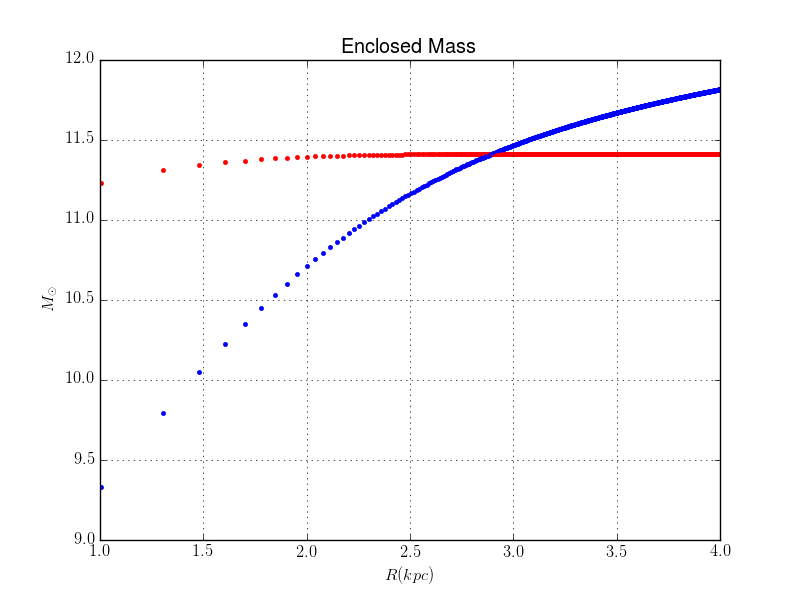
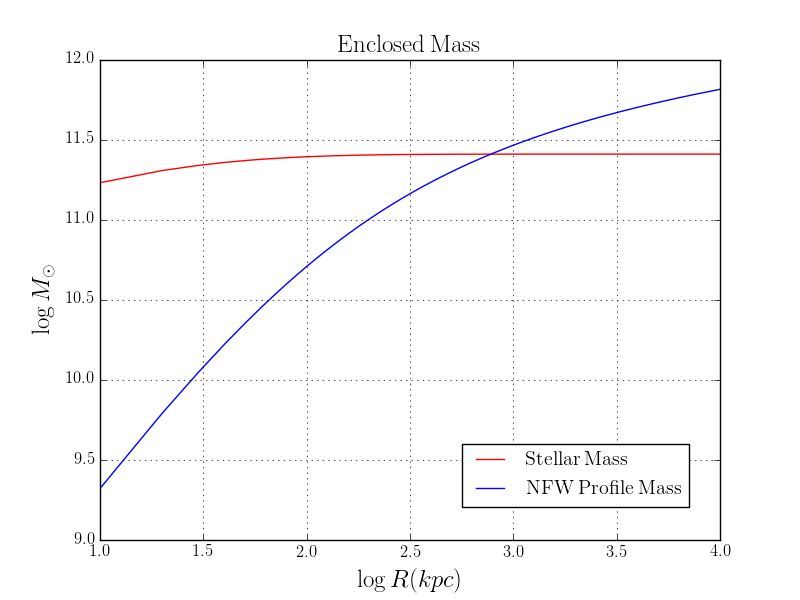
update

diff --git a/plots/Enclosed_mass.py b/plots/Enclosed_mass.py
@@ -1,60 +1,55 @@
 import numpy as np
 from scipy import integrate
-from scipy.integrate import quad
 import matplotlib as mpl
-import matplotlib.patches as mpatches
 import matplotlib.pyplot as plt
 mpl.rcParams['text.usetex'] = True
 
-c        = 4.46                                   # concentration parameter (Paper Dutton and Maccio) this was checked many times 
-delta_c  = (200./3)*(c**3)/(np.log(1+c)-c/(1+c))
-rho_c    = 197.8                                  # Critical density in M_sun/kpc^3 (197.8)
-r_s      = 100                                    # Characteristic radius (kpc) 
-I_e      = 5.1*10**8                              # Effective brightness I(Re) 2.6e6
-b        = 7.67                                   # Lokas and Mamon paper
-R_e      = 73.7                                   # Half of the total light in kpc
+c        = 4.46                                      # Concentration parameter (Paper Dutton and Maccio) 
+delta_c  = ((200./3)*c**3)/(np.log(1.0+c)-c/(1.0+c)) # Characteristic overdensity of the halo
+rho_c    = 197.8                                     # Critical density in M_sun/kpc^3 (197.8)
+r_s      = 100                                       # Characteristic radius (kpc) 
+I_e      = 10**7                                     # Effective brightness I(Re)
+b        = 7.67                                      # Lokas and Mamon paper
+R_e      = 73.7                                      # Half of the total light in kpc
+n_array  = [] 
+f_array  = []
+R        = np.arange(0.01, 10000, 10.)
 
-#MASS ENCLOSED BY LIGHT (DE VAUCOULEURS PROFILE)
+# MASS ENCLOSED BY LIGHT (DE VAUCOULEURS PROFILE)
 
 def surf_bright(r):
-	return 2*np.pi*I_e*np.exp(-b*((r/(R_e))**(0.25)-1))
-R = np.arange(0.1,10000,0.1)
-def F(r):
-    res = np.zeros_like(r)
-    for i,val in enumerate(r):
-        y,err = integrate.quad(surf_bright,0,val)
-        res[i]=y
-    return res
-plt.plot(R,F(R),label='Mass in Stars')
+	return 8.0*np.pi*I_e*np.exp( -b*( ( r/R_e )**0.25 - 1.0 ) )
 
-#NOW FOR THE MASS OF THE NFW PROFILE
+# NOW FOR THE MASS OF THE NFW PROFILE
 
-def NFW(x):
-	if (x<1.0):
-		surf_mass = 2.*np.pi*x*((2*r_s*delta_c*rho_c)/((x*x)-1))*(1-(2)/(np.sqrt(1-(x*x)))*np.arctanh(np.sqrt((1-x)/(1+x))))
-	elif (x==1.0):
-		surf_mass = (2.*r_s*delta_c*rho_c)/3
+def NFW(r):
+	if (r < r_s):
+		surf_mass = 2.0*np.pi*r/r_s*( ( 2.0*r_s*delta_c*rho_c )/( (r/r_s)**2 - 1.0 ) )*( 1.0 - 2.0/( np.sqrt( 1.0 - (r/r_s)**2 ) )*np.arctanh( np.sqrt( ( 1.0-r/r_s )/( 1.0 + r/r_s ) ) ) )
+	elif (r == r_s):
+		surf_mass = 2.0*r_s*delta_c*rho_c/3.0
 	else:
-		surf_mass = 2.*np.pi*x*((2*r_s*delta_c*rho_c)/((x*x)-1))*(1-(2)/(np.sqrt((x*x)-1))*np.arctan(np.sqrt((x-1)/(1+x))))
+		surf_mass = 2.0*np.pi*r/r_s*( ( 2.0*r_s*delta_c*rho_c )/( (r/r_s)**2 - 1.0 ) )*( 1.0 - 2.0/( np.sqrt( (r/r_s)**2 - 1.0 ) )*np.arctan( np.sqrt( ( r/r_s - 1.0 )/( 1 + r/r_s ) ) ) )
 	return surf_mass
 	
-X = np.arange(0.001,100,0.1)
+def F(val):
+  h = lambda x: surf_bright(x)
+  return integrate.quad(h, 0.1, val)[0]
 
-def Mass(x):
-    res2 = np.zeros_like(x)
-    for j,val in enumerate(x):
-        y,err = integrate.quad(NFW,0,val)
-        res2[j]=y
-    return res2
-plt.plot(X*r_s,Mass(X),label='Dynamical Mass')
-
-plt.yscale('log')
-plt.xscale('log')
-plt.xlabel('$R(kpc)$')
-plt.ylabel('$M_{\odot }$')
-plt.title('Enclosed Mass')
+def N(val):
+  g = lambda y: NFW(y)
+  return integrate.quad(g, 0.1, val)[0]
+      
+for i in range(len(R)):
+   f_array.append(np.log10(F(R[i])))
+   n_array.append(np.log10(N(R[i])))
+    
+plt.plot(np.log10(R), f_array, '-', c = 'r', label = r'$\mathrm{Stellar\:Mass}$')
+plt.plot(np.log10(R), n_array, '-', c = 'b', label = r'$\mathrm{NFW\:Profile\:Mass}$')
+plt.xlabel(r'$\log R(kpc)$',fontsize=18)
+plt.ylabel(r'$\log M_{\odot }$',fontsize=18)
+plt.title(r'$\mathrm{Enclosed\:Mass}$',fontsize=18)
 plt.grid(True)
-plt.legend()
+plt.legend(bbox_to_anchor=(0.95, 0.2), loc=1, borderaxespad=0.)
 plt.savefig("Enclosed Mass.png")
 plt.show()
-
+plt.show()      
